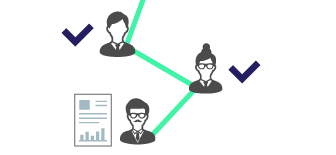
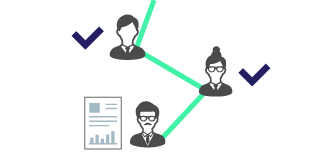
あとはpcのコンバージョン、微修正

Changed region(s): [[0.1786, 0.0, 0.8036, 0.9806]]

diff --git a/css/style.css b/css/style.css
@@ -224,6 +224,7 @@ header .sp_menu .sp_menu_list li a {
   .firstview {
     background: url(../images/firstview/bg_pc.png);
     background-size: cover;
+    background-position: center;
     position: relative;
     height: calc(100vh - 10rem);
     margin-top: 10rem;
@@ -245,11 +246,11 @@ header .sp_menu .sp_menu_list li a {
   }
   .firstview .woman {
     position: absolute;
-    left: calc(100vw - 127rem);
+    left: 34vw;
     bottom: 0;
   }
   .firstview .woman img {
-    width: 127rem;
+    width: 66vw;
   }
 }
 .action_button {
@@ -295,14 +296,13 @@ header .sp_menu .sp_menu_list li a {
   border-radius: 7px;
   box-shadow: 0 3px 10px rgba(0, 0, 0, 0.1);
   background-repeat: no-repeat;
+  background-position: center;
 }
 #merit .container .merit_box .meritimage.first {
   background-image: url(../images/merit/merit1.png);
-  background-position-x: 1rem;
 }
 #merit .container .merit_box .meritimage.second {
   background-image: url(../images/merit/merit2.png);
-  background-position-x: 1rem;
 }
 #merit .container .merit_box .meritimage.third {
   background-image: url(../images/merit/merit3.png);
@@ -447,15 +447,28 @@ header .sp_menu .sp_menu_list li a {
   justify-content: center;
   align-items: center;
   background: #241F60;
-  border-radius: 5px;
-  width: 60px;
-  height: 60px;
+  border-radius: 50%;
+  width: 5rem;
+  height: 5rem;
   color: #40F3A6;
   text-align: center;
   text-transform: uppercase;
   text-decoration: none;
   font-size: 0.6rem;
   transition: all 0.3s;
+  filter: drop-shadow(-1px 1px 3px gray);
+}
+#page-top a::before {
+  font-family: "Font Awesome 5 Free";
+  font-size: 2rem;
+  color: #40F3A6;
+  font-weight: 900;
+  content: "\f077";
+}
+@media (min-width: 769px) {
+  #page-top a {
+    display: none;
+  }
 }
 
 #page-top a:hover {

diff --git a/css/_toplink.scss b/css/_toplink.scss
@@ -8,15 +8,30 @@
   justify-content:center;
   align-items:center;
   background: $navy;
-  border-radius: 5px;
-  width: 60px;
-  height: 60px;
+  border-radius: 50%;
+  width: 5rem;
+  height: 5rem;
   color: $green;
   text-align: center;
   text-transform: uppercase; 
   text-decoration: none;
   font-size:0.6rem;
   transition:all 0.3s;
+  filter: drop-shadow(-1px 1px 3px gray);
+  
+  //上マーク
+  &::before {
+    font-family: "Font Awesome 5 Free";
+    font-size: 2rem;
+    color: $green;
+    font-weight: 900;
+    content: "\f077";
+  }
+  
+  //pcでは非表示
+  @media #{$pc} {
+    display: none;
+  }
 }
 
 #page-top a:hover{

diff --git a/css/_merit.scss b/css/_merit.scss
@@ -25,15 +25,14 @@
                 border-radius: 7px;
                 box-shadow: 0 3px 10px rgba(0, 0, 0, 0.1);
                 background-repeat: no-repeat;
+                background-position: center;
 
                 &.first {
                     background-image: url(../images/merit/merit1.png);
-                    background-position-x: 1rem;
                 }
 
                 &.second {
                     background-image: url(../images/merit/merit2.png);
-                    background-position-x: 1rem;
                 }
 
                 &.third {

diff --git a/index.html b/index.html
@@ -100,7 +100,7 @@
                         <p>目的に合わせて、申請項目やレイアウトを自由に組み合わせられます。また、分かりやすい画面で直感的に操作できるので、簡単に作成できます。</p>
                     </div>
                 </div>
-                <p id="page-top"><a href="#">Page Top</a></p>
+                <p id="page-top"><a href="#"></a></p>
                 <div class="merit_box">
                     <h2>ステータスがすぐ分かる！</h2>
                     <div class="merit_box_small">

diff --git a/css/_firstview.scss b/css/_firstview.scss
@@ -33,6 +33,7 @@
     .firstview {
         background: url(../images/firstview/bg_pc.png);
         background-size: cover;
+        background-position: center;
         position: relative;
         height: calc(100vh - 10rem);
         margin-top: 10rem;
@@ -57,11 +58,11 @@
 
         .woman {
             position: absolute;
-            left: calc(100vw - 127rem);
+            left: 34vw;
             bottom: 0;
 
             img {
-                width: 127rem;
+                width: 66vw;
             }
         }
     }
